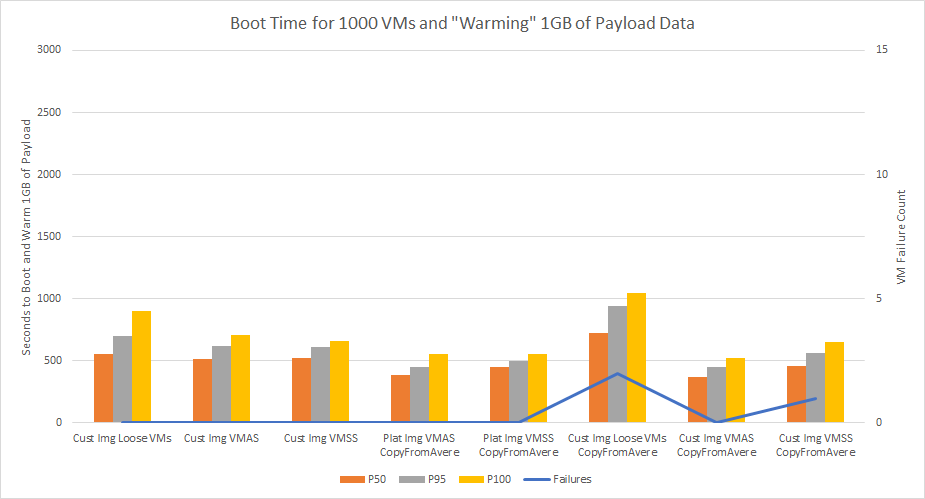
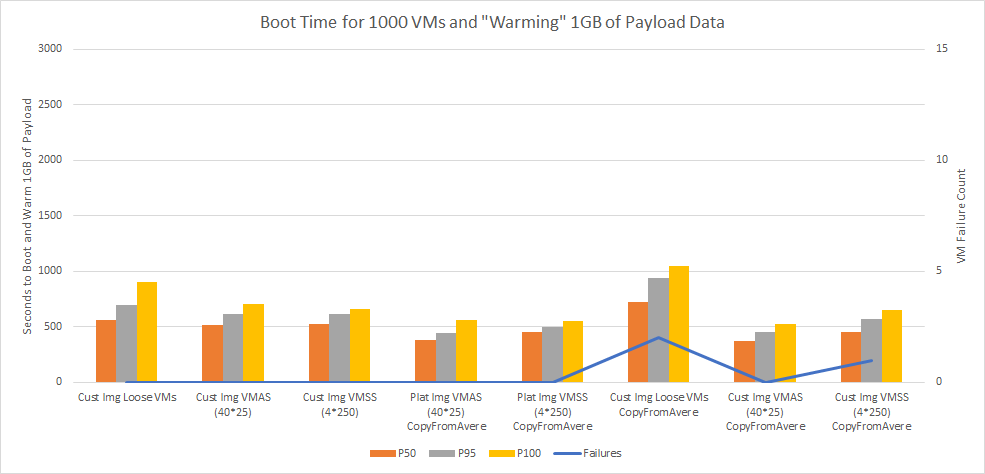
vmss additions based on feedback

diff --git a/docs/azure_vm_provision_best_practices.md b/docs/azure_vm_provision_best_practices.md
@@ -171,6 +171,8 @@ Once we resolved the above performance issues, we were able to get the timings f
 
    <img src="images/vm_boot/boot_time_1000vms_results.png">
 
+In the above chart, and subsequent charts, 4*250 for VMSS means 4 VMSS resources each with 250 VMs per VMSS, and 40*25 means 40 groups of 25 VMs each.
+
 Once we understood how to boot VMs quickly, we next looked at how to prepare the large binary/toolchain payload. In our experience, we have seen that customers require binaries or toolchains in the size range of 1GB to 5GB. These toolchains depend on the vertical and could be used for rendering, genomics processing, and financial modeling. Based on this understanding, we recorded the timings for 1GB and 5GB binaries.
 
 In the next round of experiments we "warmed" our toolchains by reading all bits of the toolchain, and thereby populating the Blob cache.  The purpose of "warming" is to ensure the VM is ready to perform work. A VM that has booted quickly is of no use if the first read on the toolchain takes 30 minutes. To "warm" the toolchain we copied all the bits from the toolchain on the OS disk to the ephemeral drive (from /opt/tools to /mnt/tools).
@@ -227,12 +229,12 @@ We then collected the timings for the 1GB and 5GB payloads in the following conf
  * (5GB only) Mount the six-node Avere vFXT and copy 5GB payload from the Avere vFXT to the ephemeral drive ("warming the cache for the NFS mount")
  * (5GB only) Mount the six-node Avere vFXT and copy 5GB payload from the Avere vFXT to the ephemeral drive ("warming the cache for the NFS mount")
 
- The results for the 1GB warming runs are summarized in the following chart. The results show that copying 1GB payloads from Avere results in slight performance increases in all cases but the loose VMs.
+The results for the 1GB warming runs are summarized in the following chart. The results show that copying 1GB payloads from Avere results in slight performance increases in all cases but the loose VMs.  It is interesting to note that with the increased load the more densely packed VMSS (250 VMs per VMSS) performed slightly better than the lightly packed VMSS (40 VMs per VMSS).
 
    <img src="images/vm_boot/boot_time_1000vms_and_warm_1GB_results.png">
 
 The results for the 5GB warming runs are summarized in the following chart. The first three column of results show retrieval of the 5GB payload from the OS disk of the custom image as found in Phase 1 of the experiment. The following observations can be seen:
- * As previously discussed, large VMSS groupings (250 VMs per VMSS) significantly outperform the small VMSS groupings (25 VMs per VM)
+ * As previously discussed, large VMSS groupings (250 VMs per VMSS) significantly outperform the small VMSS groupings (25 VMs per VM) for the large load.
  * For the loose VMs and the availability set VMs, copying from the Avere vFXT improves the timings, and also reduces the occurrences of VM failures
  * Using the payload directly from the Avere vFXT NFS share shows performance improvements across all VM configurations
 
